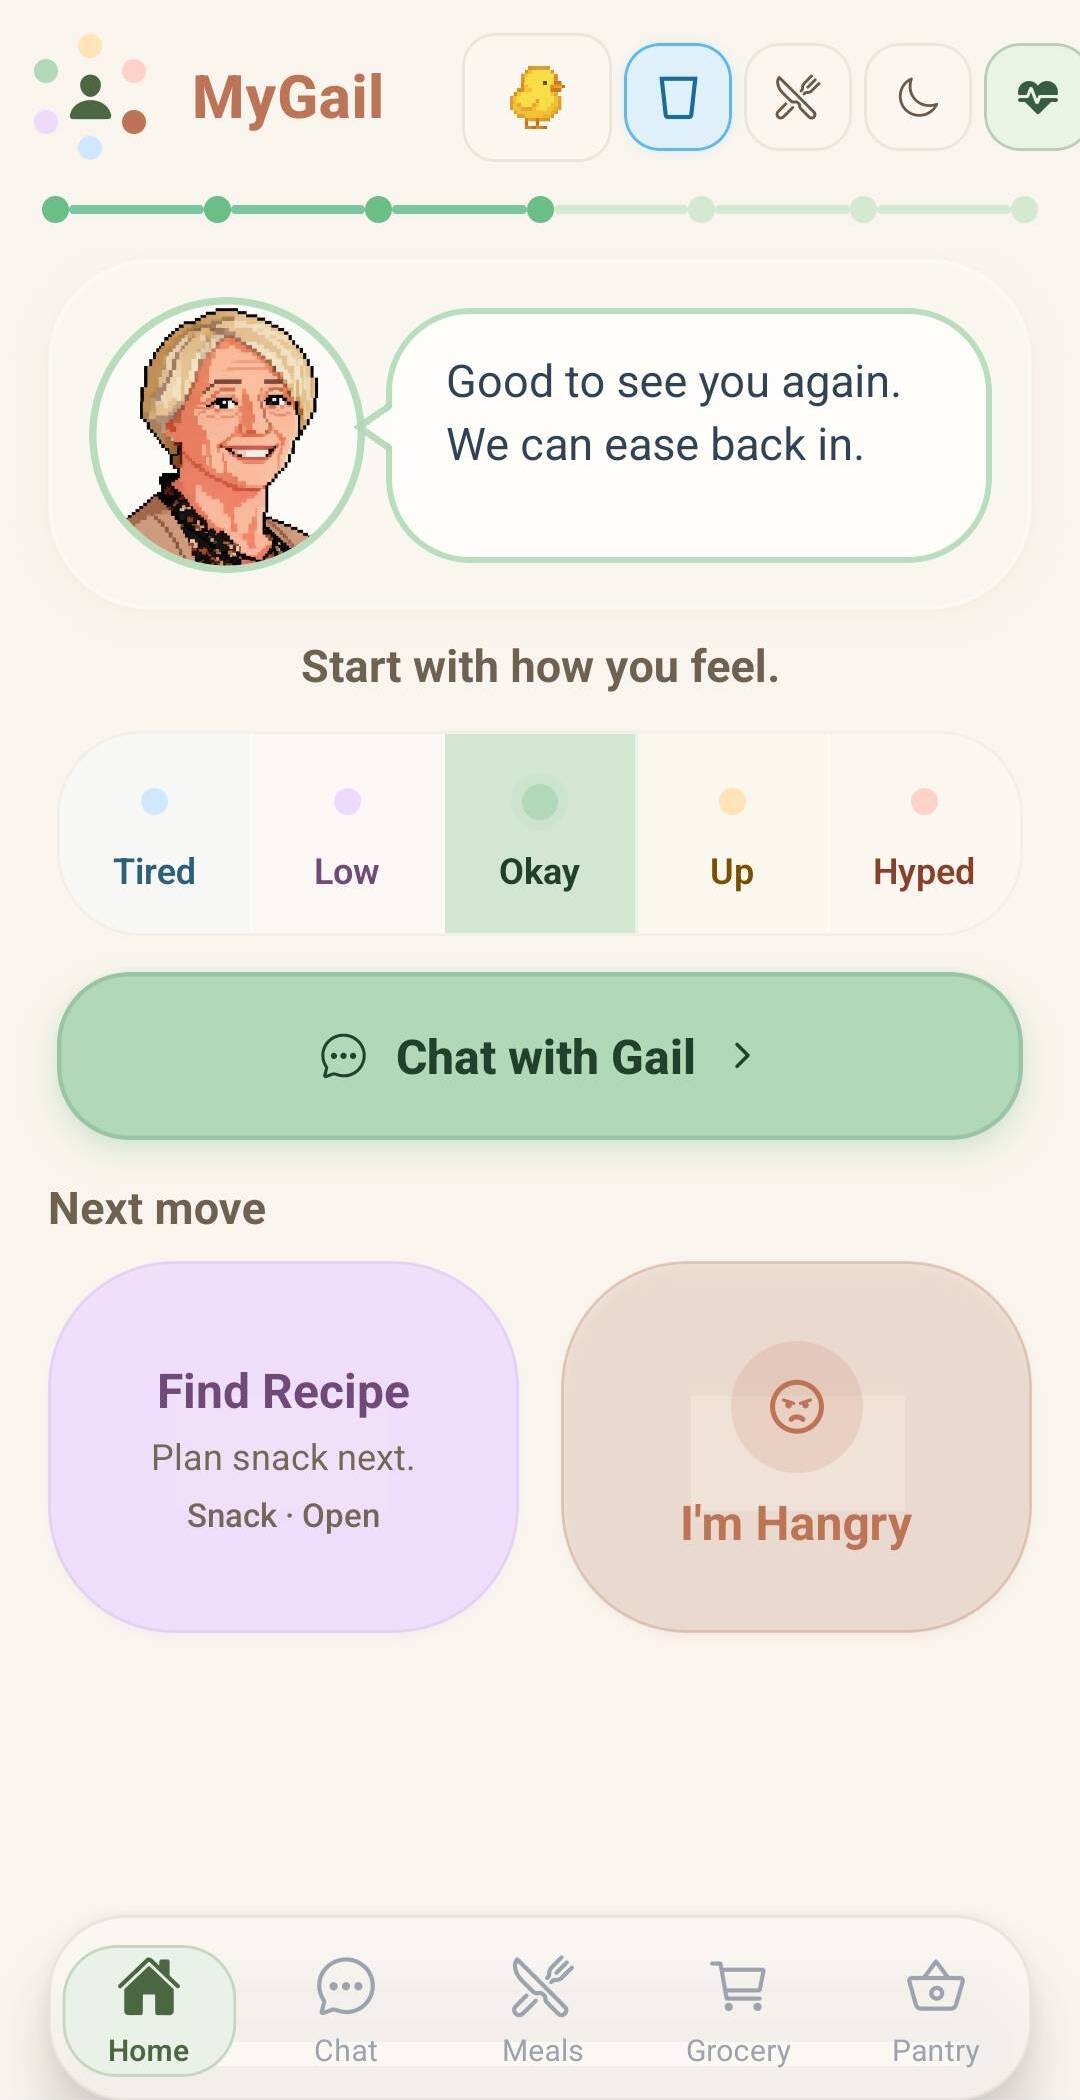
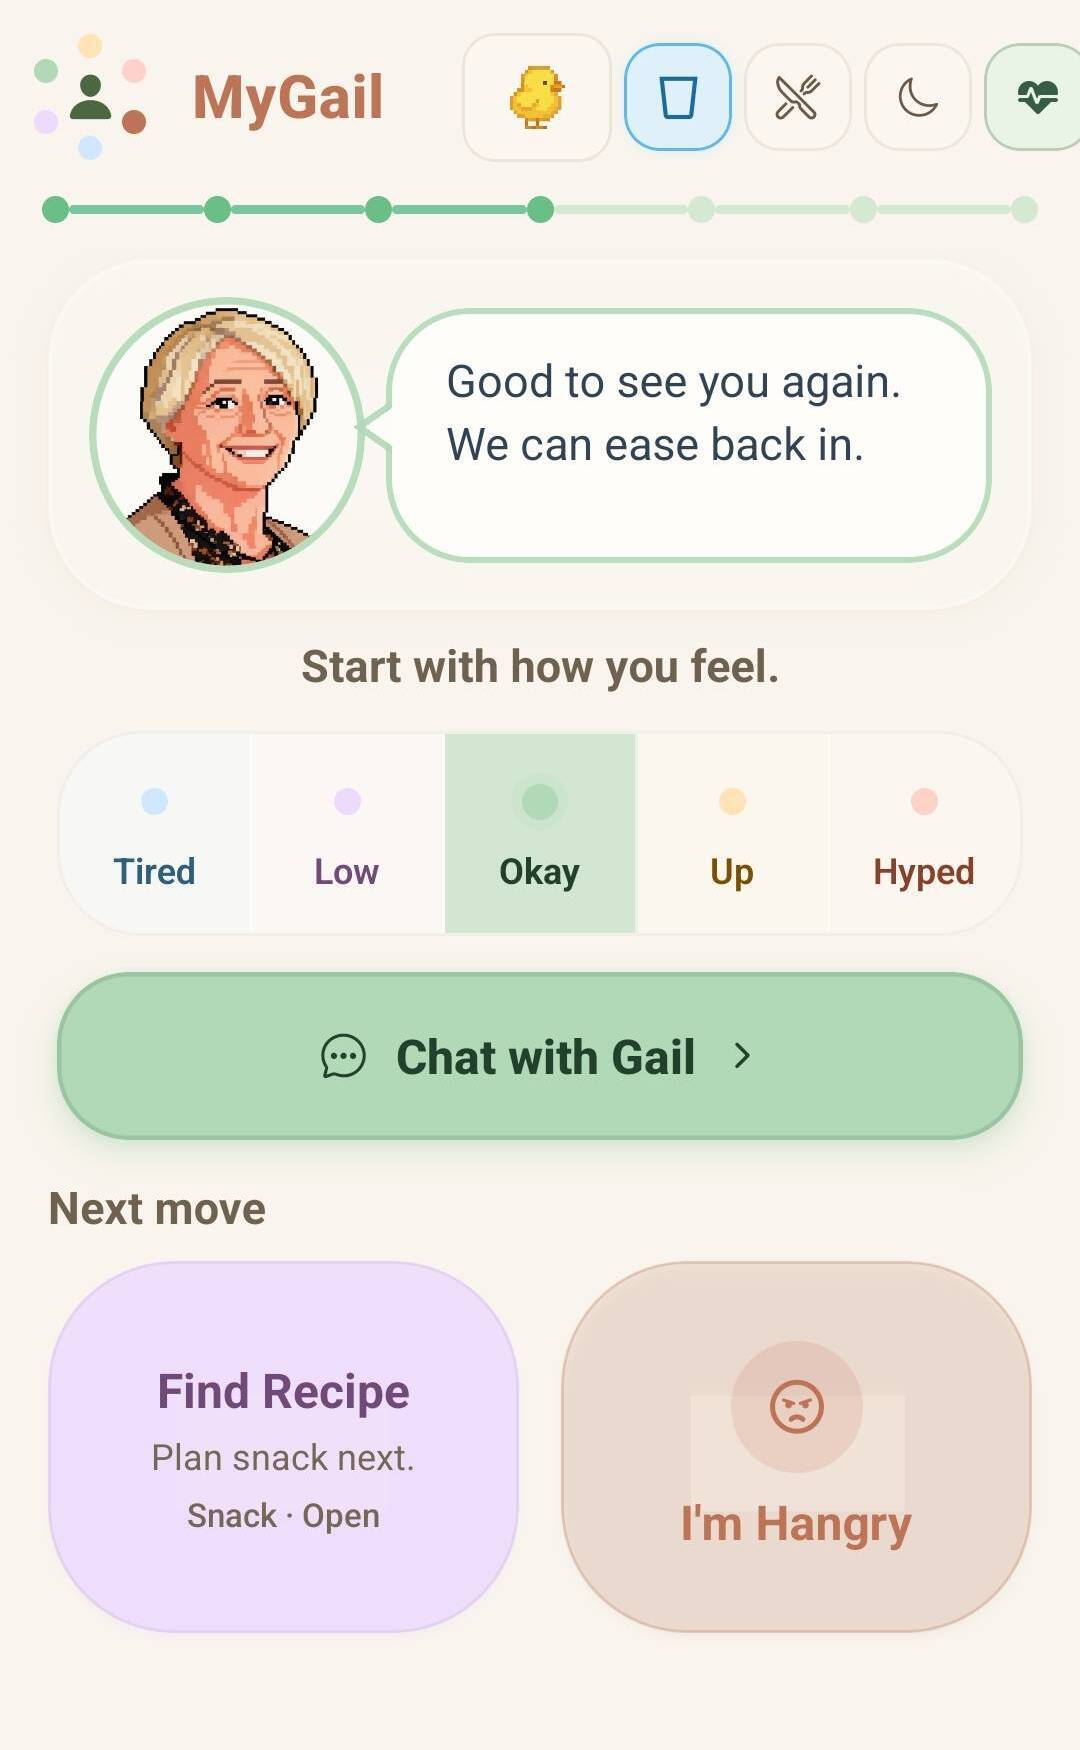
Real iPhone-style phone frame, fix screenshot cropping
The old frame cut the screenshot off mid-card because the container
was shorter than the image content. Re-cropped the screenshot to end
cleanly after the last card, switched to object-fit: contain on a
background matching the screenshot's own color (seamless), and
rebuilt the frame with a proper Dynamic Island, side buttons, and
19.5:9 aspect ratio instead of the generic rounded-rect + pill notch.

diff --git a/index.html b/index.html
@@ -181,48 +181,59 @@
     .hero-grid { grid-template-columns: 1fr; gap: 32px; }
   }
 
-  /* ---------- phone demo ---------- */
+  /* ---------- phone demo (real iPhone-style frame) ---------- */
   .phone-stage {
     display: flex;
     justify-content: center;
+    padding: 6px 26px;
   }
   .phone {
+    position: relative;
     width: 100%;
-    max-width: 340px;
-    border-radius: 38px;
-    background: linear-gradient(180deg, #ffffff, #efe9de);
-    border: 1px solid var(--border);
-    padding: 14px;
-    box-shadow: var(--shadow-soft);
+    max-width: 280px;
+    aspect-ratio: 9 / 19.5;
+    background: linear-gradient(155deg, #4a4a4d, #232325 45%, #323234 100%);
+    border-radius: 54px;
+    padding: 11px;
+    box-shadow: var(--shadow-soft), inset 0 0 0 1.5px rgba(255,255,255,0.12);
   }
+  .phone-btn {
+    position: absolute;
+    background: linear-gradient(90deg, #3a3a3c, #232325);
+    border-radius: 3px;
+  }
+  .phone-btn-power { right: -2.5px; top: 27%; width: 2.5px; height: 11%; }
+  .phone-btn-vol-up { left: -2.5px; top: 20%; width: 2.5px; height: 6%; }
+  .phone-btn-vol-down { left: -2.5px; top: 28%; width: 2.5px; height: 6%; }
   .phone-screen {
-    background: var(--ground);
-    border-radius: 26px;
-    padding: 18px 16px 20px;
-    min-height: 430px;
-    display: flex;
-    flex-direction: column;
+    background: #FAF5EF;
+    border-radius: 44px;
+    height: 100%;
     position: relative;
     overflow: hidden;
     font-family: -apple-system, BlinkMacSystemFont, 'Segoe UI', Roboto, sans-serif;
   }
-  .phone-notch {
-    align-self: center;
-    width: 84px;
-    height: 6px;
-    border-radius: var(--radius-pill);
-    background: rgba(63,61,52,0.14);
-    margin-bottom: 14px;
-    position: relative;
-    z-index: 2;
-    flex-shrink: 0;
+  .dynamic-island {
+    position: absolute;
+    top: 12px;
+    left: 50%;
+    transform: translateX(-50%);
+    width: 32%;
+    height: 3.2%;
+    min-height: 20px;
+    background: #0b0b0c;
+    border-radius: 999px;
+    z-index: 3;
   }
   .phone-real-shot {
     position: absolute;
-    inset: 0;
+    top: 15%;
+    left: 0;
+    right: 0;
+    bottom: 0;
     width: 100%;
-    height: 100%;
-    object-fit: cover;
+    height: 85%;
+    object-fit: contain;
     object-position: top center;
     z-index: 1;
   }
@@ -719,8 +730,11 @@
       <div class="hero-grid">
         <div class="phone-stage">
           <div class="phone">
+            <div class="phone-btn phone-btn-power"></div>
+            <div class="phone-btn phone-btn-vol-up"></div>
+            <div class="phone-btn phone-btn-vol-down"></div>
             <div class="phone-screen">
-              <div class="phone-notch"></div>
+              <div class="dynamic-island"></div>
               <img class="phone-real-shot" src="assets/home-screenshot.jpg" alt="MyGail Home screen — real screenshot of the app" />
             </div>
           </div>
